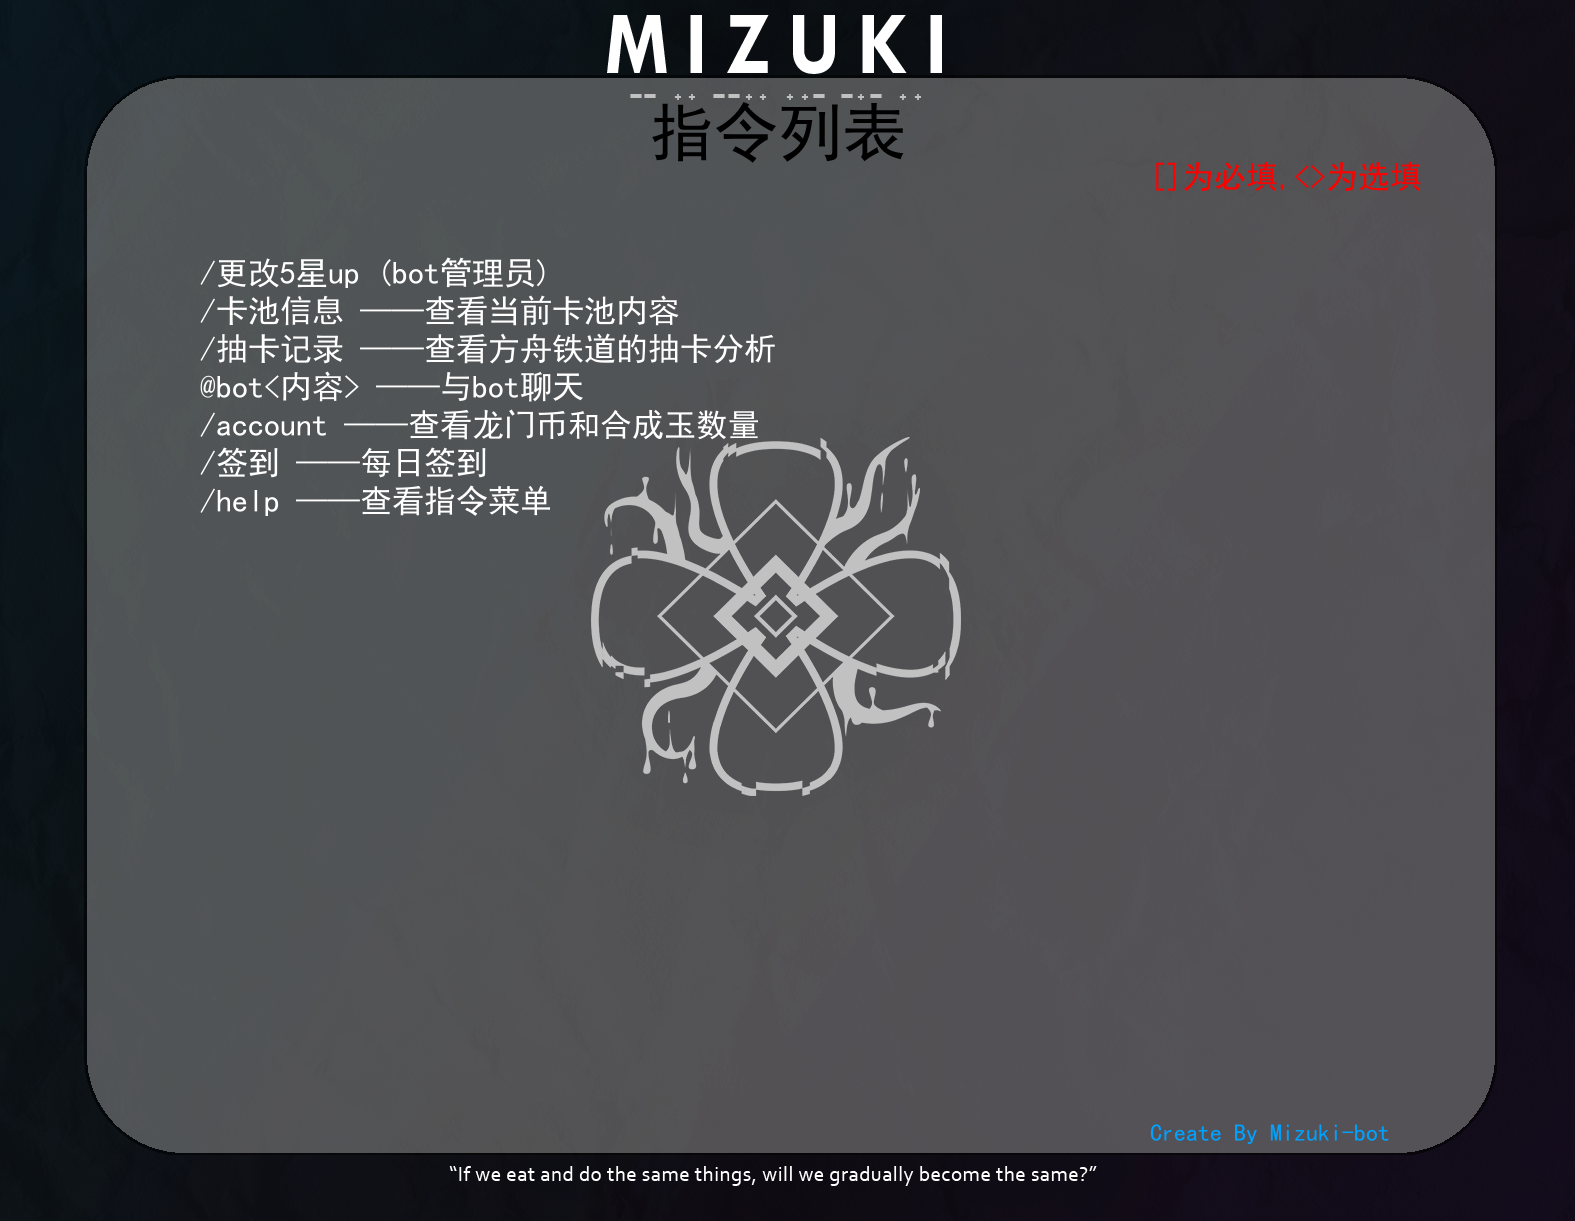
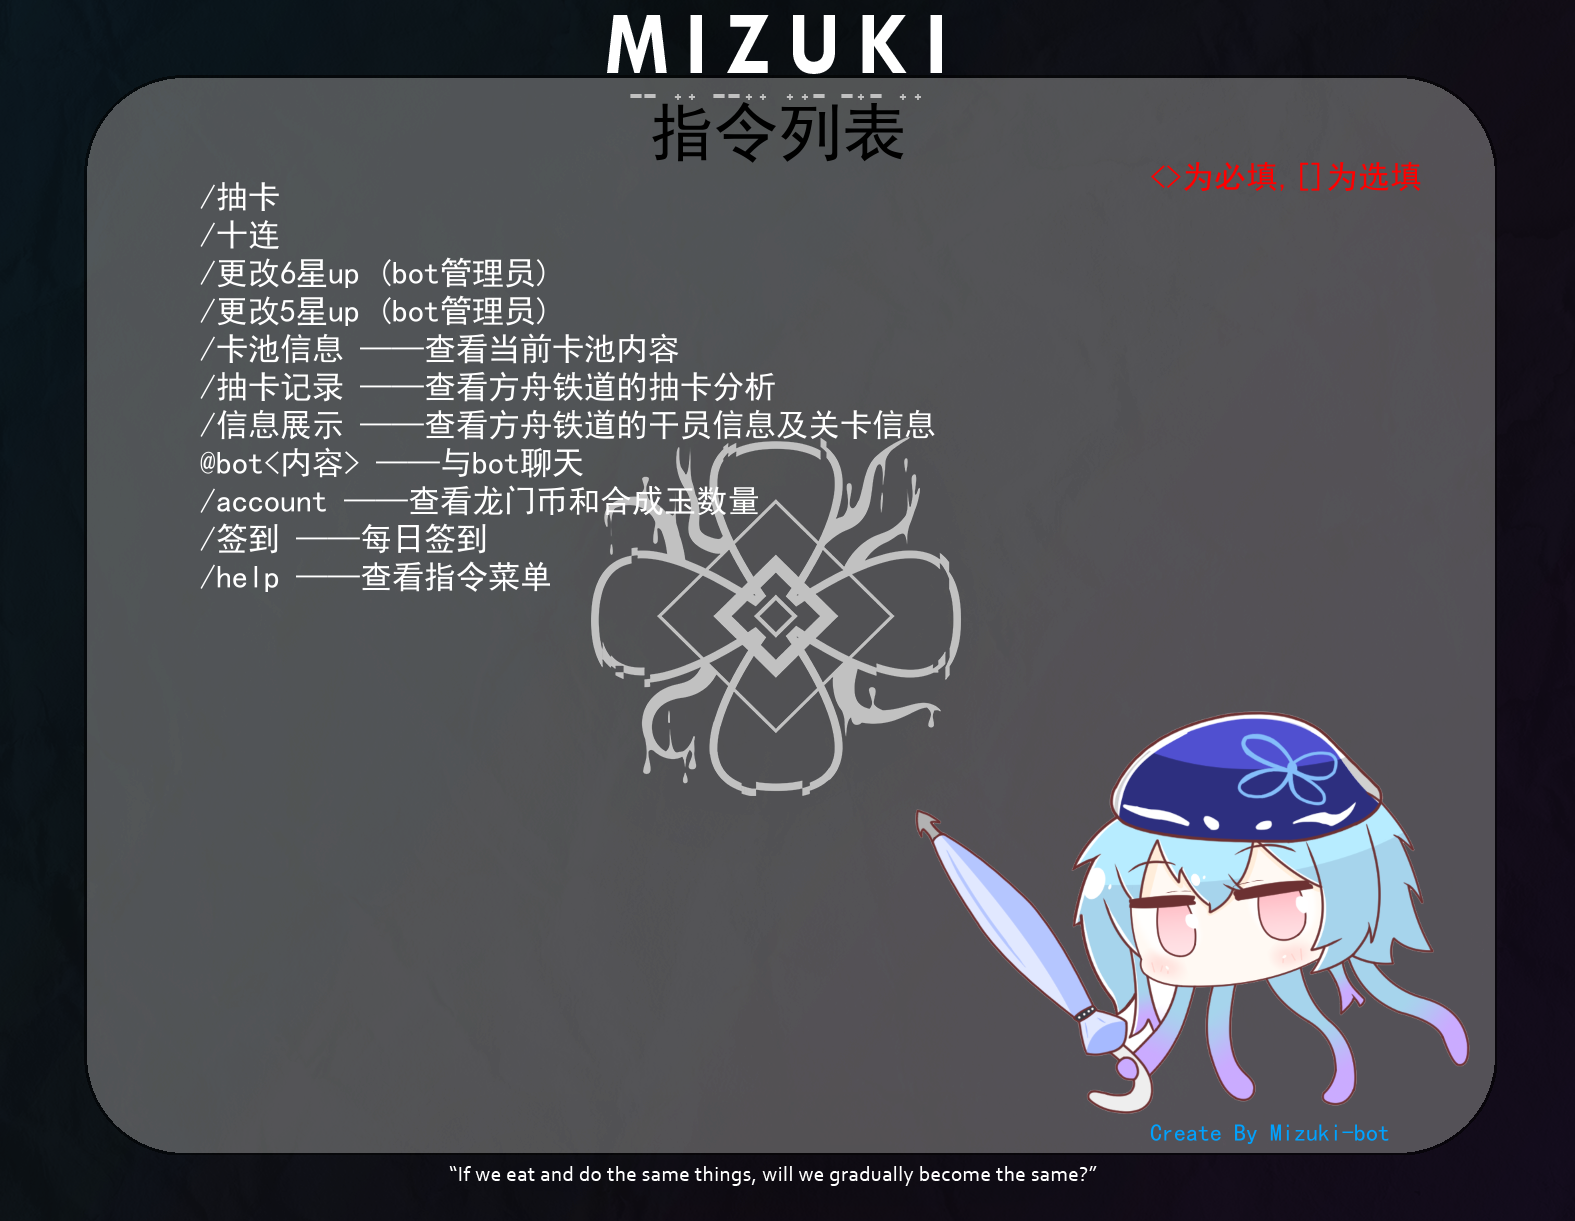
更新help菜单算法

diff --git a/mizuki/plugins/Help/draw_img.py b/mizuki/plugins/Help/draw_img.py
@@ -10,18 +10,21 @@ from pathlib import Path
 from nonebot import get_driver
 
 bg_img_path = Path() / 'mizuki' / 'plugins' / 'Help' / 'res' / 'bg.png'
+mizuki_img_path = Path() / 'mizuki' / 'plugins' / 'Help' / 'res' / 'mizuki.png'
 casual_img_path = Path() / 'mizuki' / 'plugins' / 'Help'
 
 async def draw_help_img() -> Path:
     plugins_info_list = PluginsInfoList().plugins_list
     bg_img = Image.open(bg_img_path)
+    mizuki_img = Image.open(mizuki_img_path)
     img = Image.new("RGB", bg_img.size, (255, 255, 255))
     img.paste(bg_img, (0,0))
+    img.paste(mizuki_img, (900,700), mask=mizuki_img)
     draw = ImageDraw.Draw(img)
     font = ImageFont.truetype("simhei", 64)
     draw.text((650, 100), "指令列表",font=font, fill='black')
     font = ImageFont.truetype("simhei", 32)
-    draw.text((1150, 160), "[]为必填,<>为选填", font=font, fill='red')
+    draw.text((1150, 160), "<>为必填,[]为选填", font=font, fill='red')
     font = ImageFont.truetype("simhei", 24)
     draw.text((1150, 1120), "Create By Mizuki-bot", font=font, fill=(0, 162, 255))
     command_start = list(get_driver().config.command_start)[0]
@@ -31,27 +34,28 @@ async def draw_help_img() -> Path:
         base_y =180
         font_size = 32
         font = ImageFont.truetype("simhei", font_size)
-        content = ''
         if isinstance(plugin.usage, list):#判断用法是否为列表
             for per in plugin.usage:
                 if str(per).startswith("@"):#判断是否为@bot
                     content = per
                 else:
                     content = command_start + per
+                if "permission" in plugin.extra.keys() and plugin.extra["permission"] == "SUPERUSER":
+                    content += " (bot管理员)"
+                draw.text((x, base_y + i * (font_size + 6)), f"{content}", font=font, fill='white')
                 i += 1
         else:
             if str(plugin.usage).startswith("@"):  # 判断是否为@bot
                 content = plugin.usage
             else:
                 content = command_start + plugin.usage
+            if "permission" in plugin.extra.keys() and plugin.extra["permission"] == "SUPERUSER":
+                content += " (bot管理员)"
+            draw.text((x, base_y + i * (font_size + 6)), f"{content}", font=font, fill='white')
             i += 1
-        if "permission" in plugin.extra.keys() and plugin.extra["permission"] == "SUPERUSER":
-            content += " (bot管理员)"
-
-        if base_y + i * (font_size + 6) > 1080:#左边排满了往右边排
+        if base_y + i * (font_size + 6) > 1080:  # 左边排满了往右边排
             x = 1000
             i = 0
-        draw.text((x, base_y + i * (font_size + 6)), f"{content}", font=font, fill='white')
 
     save_path = casual_img_path / 'help.png'
     img.save(save_path)
